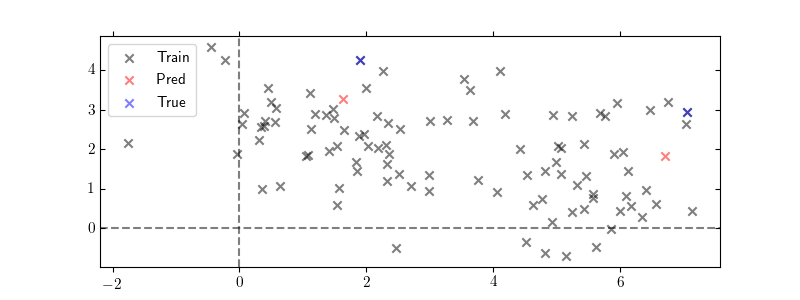
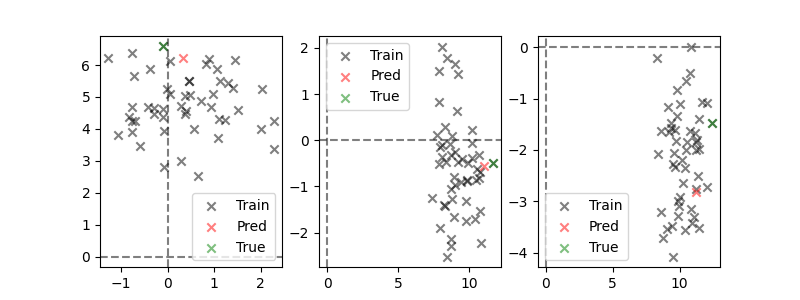
Fix masks.

diff --git a/examples/max_value.py b/examples/max_value.py
@@ -3,7 +3,7 @@ import numpy as np
 import torch
 import torch.nn as nn
 import torch.optim as optim
-from src.blocks import ISAB, PMA
+from src.blocks import SAB, PMA
 from argparse import ArgumentParser
 from matplotlib import pyplot as plt
 
@@ -31,7 +31,7 @@ if __name__ == "__main__":
     x_tr = torch.tensor(x_tr, dtype=torch.float)
     y_tr = torch.tensor(y_tr, dtype=torch.float)
 
-    model = nn.Sequential(ISAB(dim=2, num_heads=1, num_inds=1),
+    model = nn.Sequential(SAB(dim=2, num_heads=1),
                           PMA(dim=2, num_heads=1))
     optimizer = optim.Adam(model.parameters(), lr=0.1)
 
@@ -45,21 +45,24 @@ if __name__ == "__main__":
             logger.info(f"Iter: {i}\t"
                         f"Loss: {loss.mean().data:.2f}\t")
 
-    x_te, y_te = gen_data(2, 50)
+
+    x_te, y_te = gen_data(3, 50)
     x_te = torch.tensor(x_te, dtype=torch.float)
     y_te = torch.tensor(y_te, dtype=torch.float)
     y_hat = model.forward(x_te)
 
     plt.figure(figsize=(8, 3))
-    plt.scatter(x_te.data[:,:,0], x_te.data[:,:,1], color="black",
-                label="Train", marker="x", alpha=0.5)
-    plt.scatter(y_hat.data[:,:,0], y_hat.data[:,:,1], color="red",
-                label="Pred", marker="x", alpha=0.5)
-    plt.scatter(y_te.data[:,:,0], y_te.data[:,:,1], color="blue",
-                label="True", marker="x", alpha=0.5)
-    plt.axvline(0, ls="--", color="black", alpha=0.5)
-    plt.axhline(0, ls="--", color="black", alpha=0.5)
-    plt.legend()
+    for i in range(3):
+        plt.subplot(1, 3, i + 1)
+        plt.scatter(x_te.data[i,:,0], x_te.data[i,:,1], color="black",
+                    label="Train", marker="x", alpha=0.5)
+        plt.scatter(y_hat.data[i,:,0], y_hat.data[i,:,1], color="red",
+                    label="Pred", marker="x", alpha=0.5)
+        plt.scatter(y_te.data[i,:,0], y_te.data[i,:,1], color="green",
+                    label="True", marker="x", alpha=0.5)
+        plt.axvline(0, ls="--", color="black", alpha=0.5)
+        plt.axhline(0, ls="--", color="black", alpha=0.5)
+        plt.legend()
 
     plt.savefig("./examples/max_value.png")
     plt.show()

diff --git a/src/blocks.py b/src/blocks.py
@@ -5,15 +5,15 @@ import torch.nn as nn
 class MultiHeadAttn(nn.Module):
     """
     Multi-Head Attention [Vaswani et al. NeurIPS 2017].
-    
-    Scaled dot-product attention is performed over V, using K as keys and Q as queries. 
+
+    Scaled dot-product attention is performed over V, using K as keys and Q as queries.
 
         MultiHeadAttn(Q, V) = FC(SoftMax(1/√d QKᵀ) V) (concatenated over multiple heads),
 
     Notes
     -----
     (1) Q, K, V can be of different dimensions, though Q/K are projected to the dimensionality of V.
-    (2) We assume the last and second last dimensions correspond to the feature (i.e. embedding)  
+    (2) We assume the last and second last dimensions correspond to the feature (i.e. embedding)
         and token (i.e. words) dimensions respectively.
     """
     def __init__(self, dim_q, dim_k, dim_v, num_heads=8, dropout_prob=0.1):
@@ -52,8 +52,10 @@ class MultiHeadAttn(nn.Module):
         q = torch.cat(q.split(split_size, dim=-1), dim=0)
         k = torch.cat(k.split(split_size, dim=-1), dim=0)
         v = torch.cat(v.split(split_size, dim=-1), dim=0)
-        a = self.dropout(torch.softmax(q @ k.transpose(-1, -2) / self.dim_v ** 0.5, dim=-1))
-        a = a * mask.unsqueeze(-2) if mask is not None else a
+        a = q @ k.transpose(-1, -2) / self.dim_v ** 0.5
+        if mask is not None:
+            a[mask.unsqueeze(-2) == 0] = -65504
+        a = self.dropout(torch.softmax(a, dim=-1))
         o = self.fc_o(torch.cat((a @ v).split(batch_size, dim=0), dim=-1))
         return o
 
